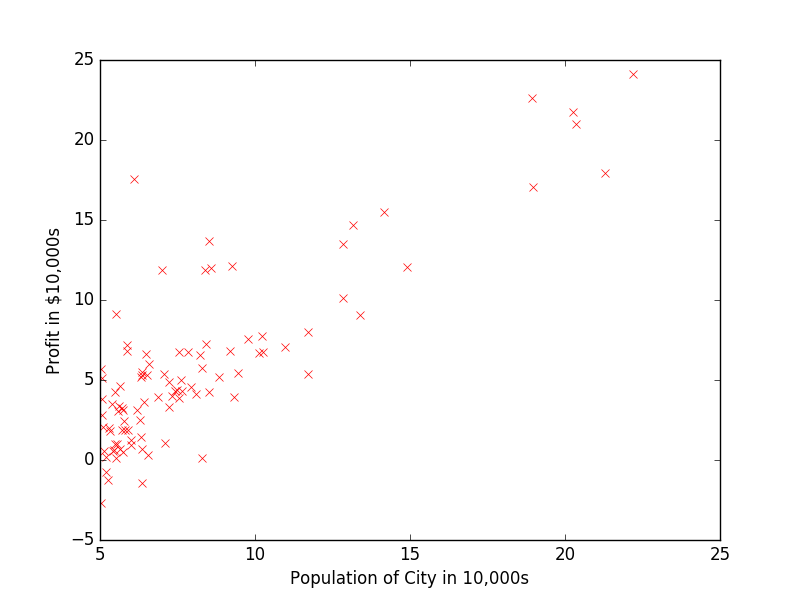
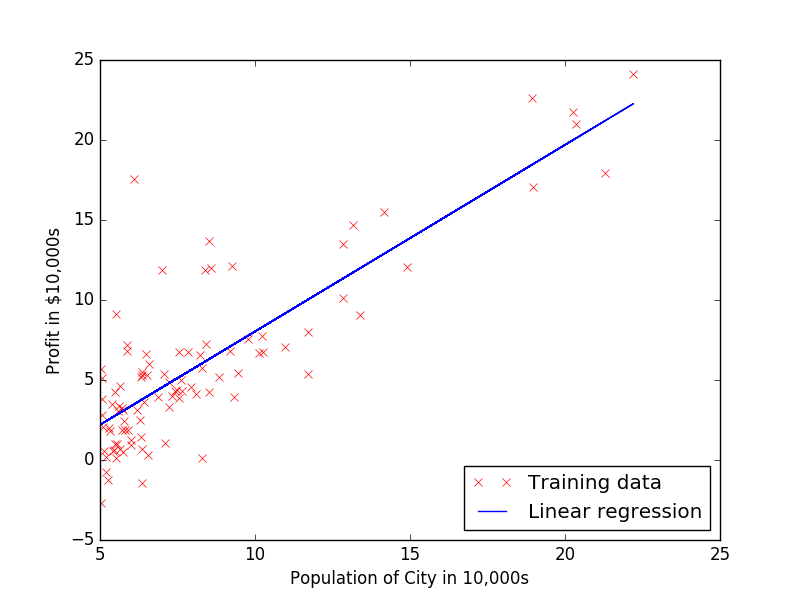
upd ex1

diff --git a/machine-learning-ex1/ex1-python/ex1.py b/machine-learning-ex1/ex1-python/ex1.py
@@ -43,14 +43,14 @@ def computeCost(X, y, theta):
     return J/(2.0*m)
     
 def gradientDescent(X, y, theta, alpha, num_iters):
-    #Initialize some useful values
     m = len(y) # number of training examples
-    J_history = np.zeros((num_iters, 1))
-
-    for i in range(num_iters):
-        
-        # Save the cost J in every iteration    
-        J_history[i] = computeCost(X, y, theta)
+    for it in range(num_iters):
+        tmp = 0*theta
+        for i in range(m):
+            for j in range(len(theta)):
+                tmp[j] = tmp[j] + (np.dot(theta.T,X[:,i])-y[i])*X[j,i]
+        theta = theta - alpha/m*tmp
+        #print(computeCost(X, y, theta))
     return theta
 
 ## ======================= Part 2: Plotting =======================
@@ -61,7 +61,7 @@ y = data[:, 1]
 m = len(y)  # number of training examples
 
 # Plot Data
-#plotData(X, y)
+plotData(X, y)
 
 input("Press Enter to continue...")
 
@@ -93,22 +93,21 @@ print('\n', theta)
 print('Expected theta values (approx)\n')
 print(' -3.6303\n  1.1664\n\n')
 
-#% Plot the linear fit
-#hold on; % keep previous plot visible
-#plot(X(:,2), X*theta, '-')
-#legend('Training data', 'Linear regression')
-#hold off % don't overlay any more plots on this figure
+## Plot the linear fit
+plt.plot(X[1,:],y, 'rx')
+plt.xlabel('Population of City in 10,000s')
+plt.ylabel('Profit in $10,000s')
+plt.plot(X[1,:], np.dot(X.T,theta))
+plt.legend(['Training data', 'Linear regression'], loc='lower right')
+plt.show()
 
-#% Predict values for population sizes of 35,000 and 70,000
-#predict1 = [1, 3.5] *theta;
-#fprintf('For population = 35,000, we predict a profit of %f\n',...
-    #predict1*10000);
-#predict2 = [1, 7] * theta;
-#fprintf('For population = 70,000, we predict a profit of %f\n',...
-    #predict2*10000);
+# Predict values for population sizes of 35,000 and 70,000
+predict1 = np.array([1, 3.5])*theta
+print('For population = 35,000, we predict a profit of \n', predict1*10000)
+predict2 = np.aray([1, 7])*theta
+print('For population = 70,000, we predict a profit of \n', predict2*10000)
 
-#fprintf('Program paused. Press enter to continue.\n');
-#pause;
+input("Press Enter to continue...")
 
 #%% ============= Part 4: Visualizing J(theta_0, theta_1) =============
 #fprintf('Visualizing J(theta_0, theta_1) ...\n')
